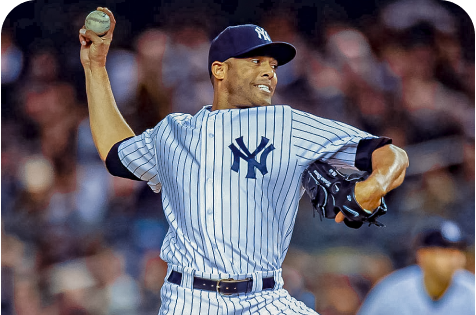
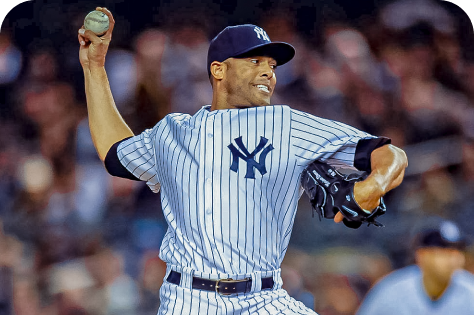
style: add border to card-slide

diff --git a/cards-slider.css b/cards-slider.css
@@ -55,6 +55,7 @@
   position: relative;
 
   background-color: white;
+  border: 1px solid #191A23;
   border-radius: 36px;
   min-width: 475px;
   height: 100%;
@@ -73,8 +74,6 @@
   object-fit: none;
   border-top-left-radius: 36px;
   border-top-right-radius: 36px;
-
-  border-left: 1px solid black;
 }
 
 .card-content {
